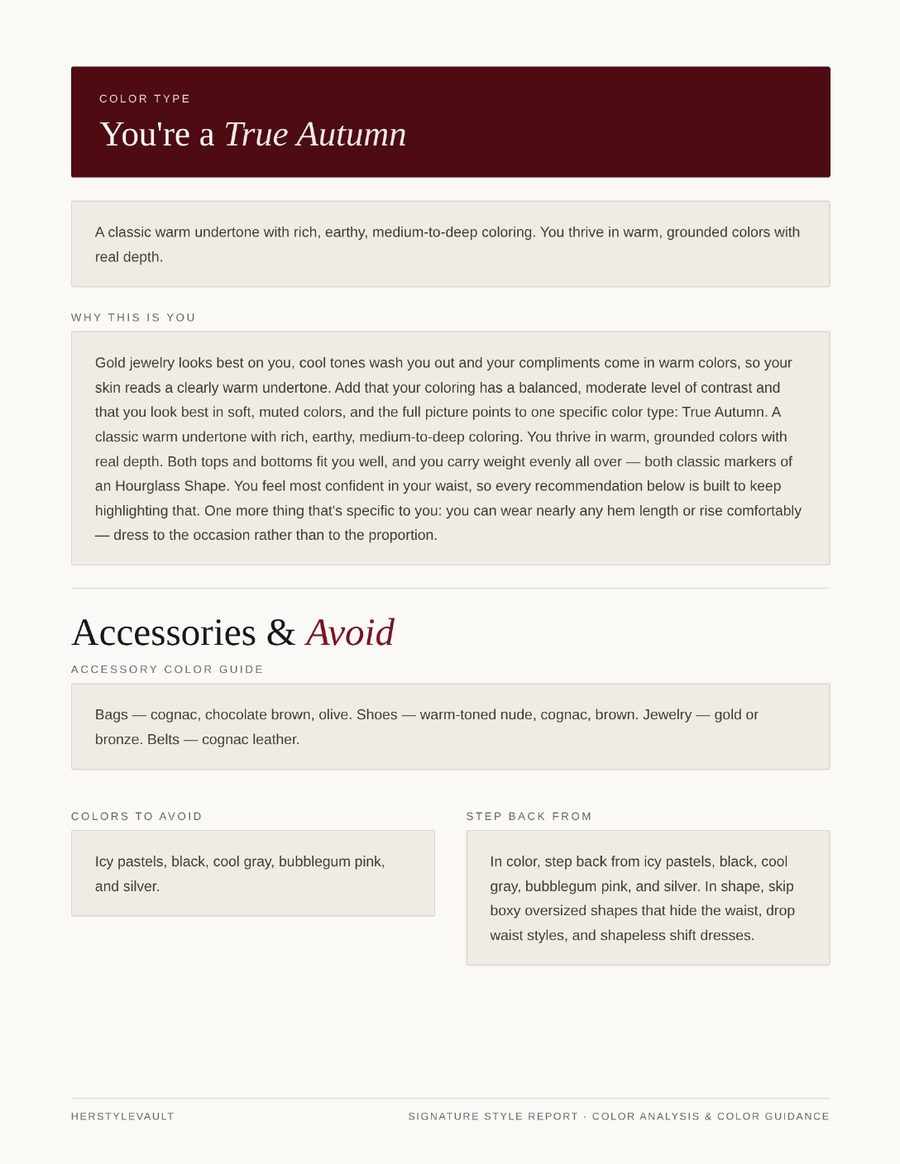
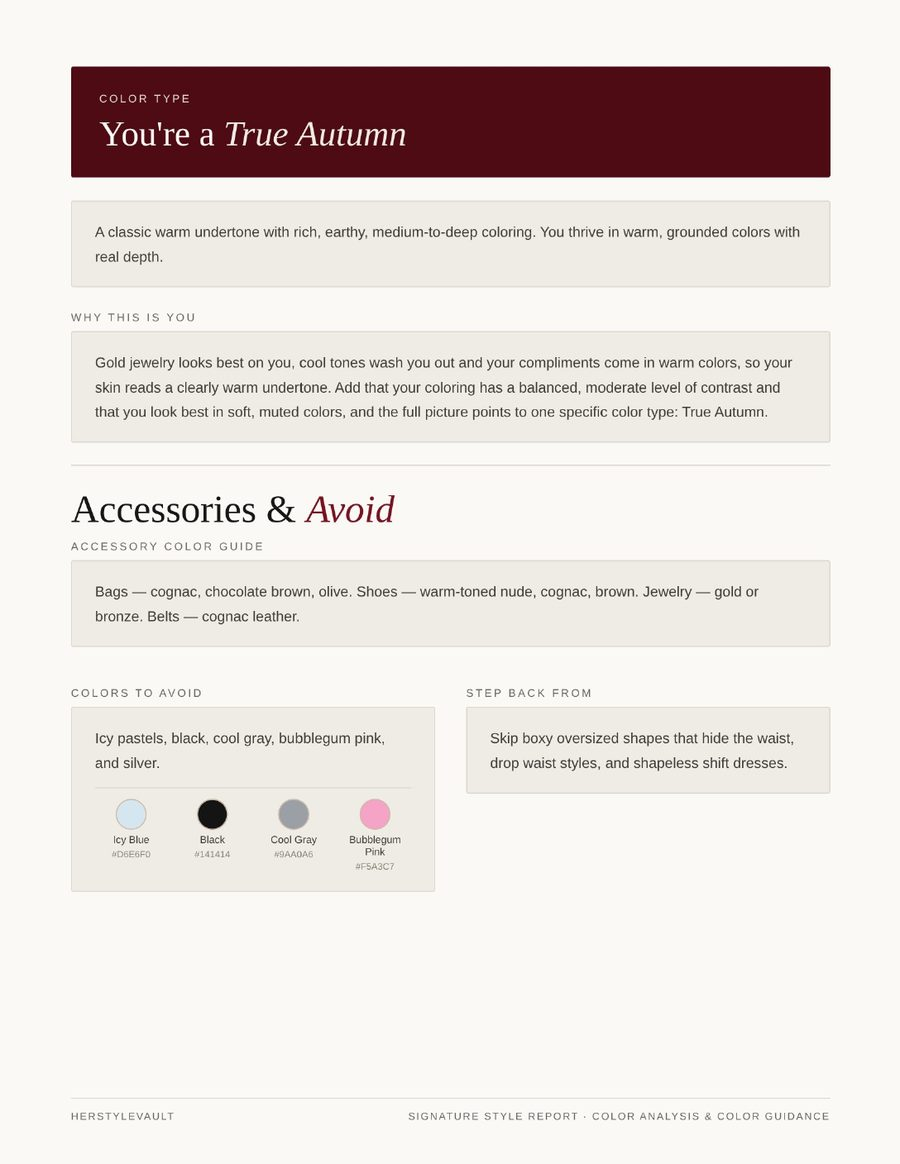
Rename Gilded Grace to Soft Power; sneak peek uses Rich Auntie in Training
Claude-Session: https://claude.ai/code/session_01FUdN8BrrqRcBgv91ujUewX

Changed region(s): [[0.0622, 0.3711, 0.9022, 0.7732], [0.4667, 0.5876, 0.8711, 0.8351], [0.4667, 0.4948, 0.84, 0.5258]]

diff --git a/color-style-analysis.html b/color-style-analysis.html
@@ -236,7 +236,7 @@ const PERSONA_TABLE = {
               formula:['Sharp-Shouldered Outerwear','Sleek Column Silhouette','Architectural Bag & Dark Lenses'],
               rule:'Permission granted to add one color. All-dark works because of contrast in texture, so a single rich accent from your palette keeps it from reading flat.' },
   feminine: { young:{name:'Coquette Couture',tagline:'You love flattering waistlines, soft textures, and dainty gold details that make everyday dressing feel special.'},
-              mature:{name:'Gilded Grace',tagline:'You gravitate toward fluid fabrics, sculpted silhouettes, and romantic details with a refined, grown-woman finish.'},
+              mature:{name:'Soft Power',tagline:'You gravitate toward fluid fabrics, sculpted silhouettes, and romantic details with a refined, grown-woman finish.'},
               formula:['Fluid Midi or Soft Knit','Defined Waist','Dainty Gold Jewelry'],
               rule:'Permission granted to skip the ruffle. Romantic can be a clean line and a soft fabric, and one delicate detail is enough.' },
   casual:   { young:{name:'Denim Darling',tagline:'You make everyday jeans, a sleek tank, and the right bag look like a full styling session.'},

diff --git a/netlify/functions/lib/knowledge.js b/netlify/functions/lib/knowledge.js
@@ -611,7 +611,7 @@ const PERSONA_TABLE = {
               formula:['Sharp-Shouldered Outerwear','Sleek Column Silhouette','Architectural Bag & Dark Lenses'],
               rule:'Permission granted to add one color. All-dark works because of contrast in texture, so a single rich accent from your palette keeps it from reading flat.' },
   feminine: { young:{name:'Coquette Couture',tagline:'You love flattering waistlines, soft textures, and dainty gold details that make everyday dressing feel special.'},
-              mature:{name:'Gilded Grace',tagline:'You gravitate toward fluid fabrics, sculpted silhouettes, and romantic details with a refined, grown-woman finish.'},
+              mature:{name:'Soft Power',tagline:'You gravitate toward fluid fabrics, sculpted silhouettes, and romantic details with a refined, grown-woman finish.'},
               formula:['Fluid Midi or Soft Knit','Defined Waist','Dainty Gold Jewelry'],
               rule:'Permission granted to skip the ruffle. Romantic can be a clean line and a soft fabric, and one delicate detail is enough.' },
   casual:   { young:{name:'Denim Darling',tagline:'You make everyday jeans, a sleek tank, and the right bag look like a full styling session.'},
